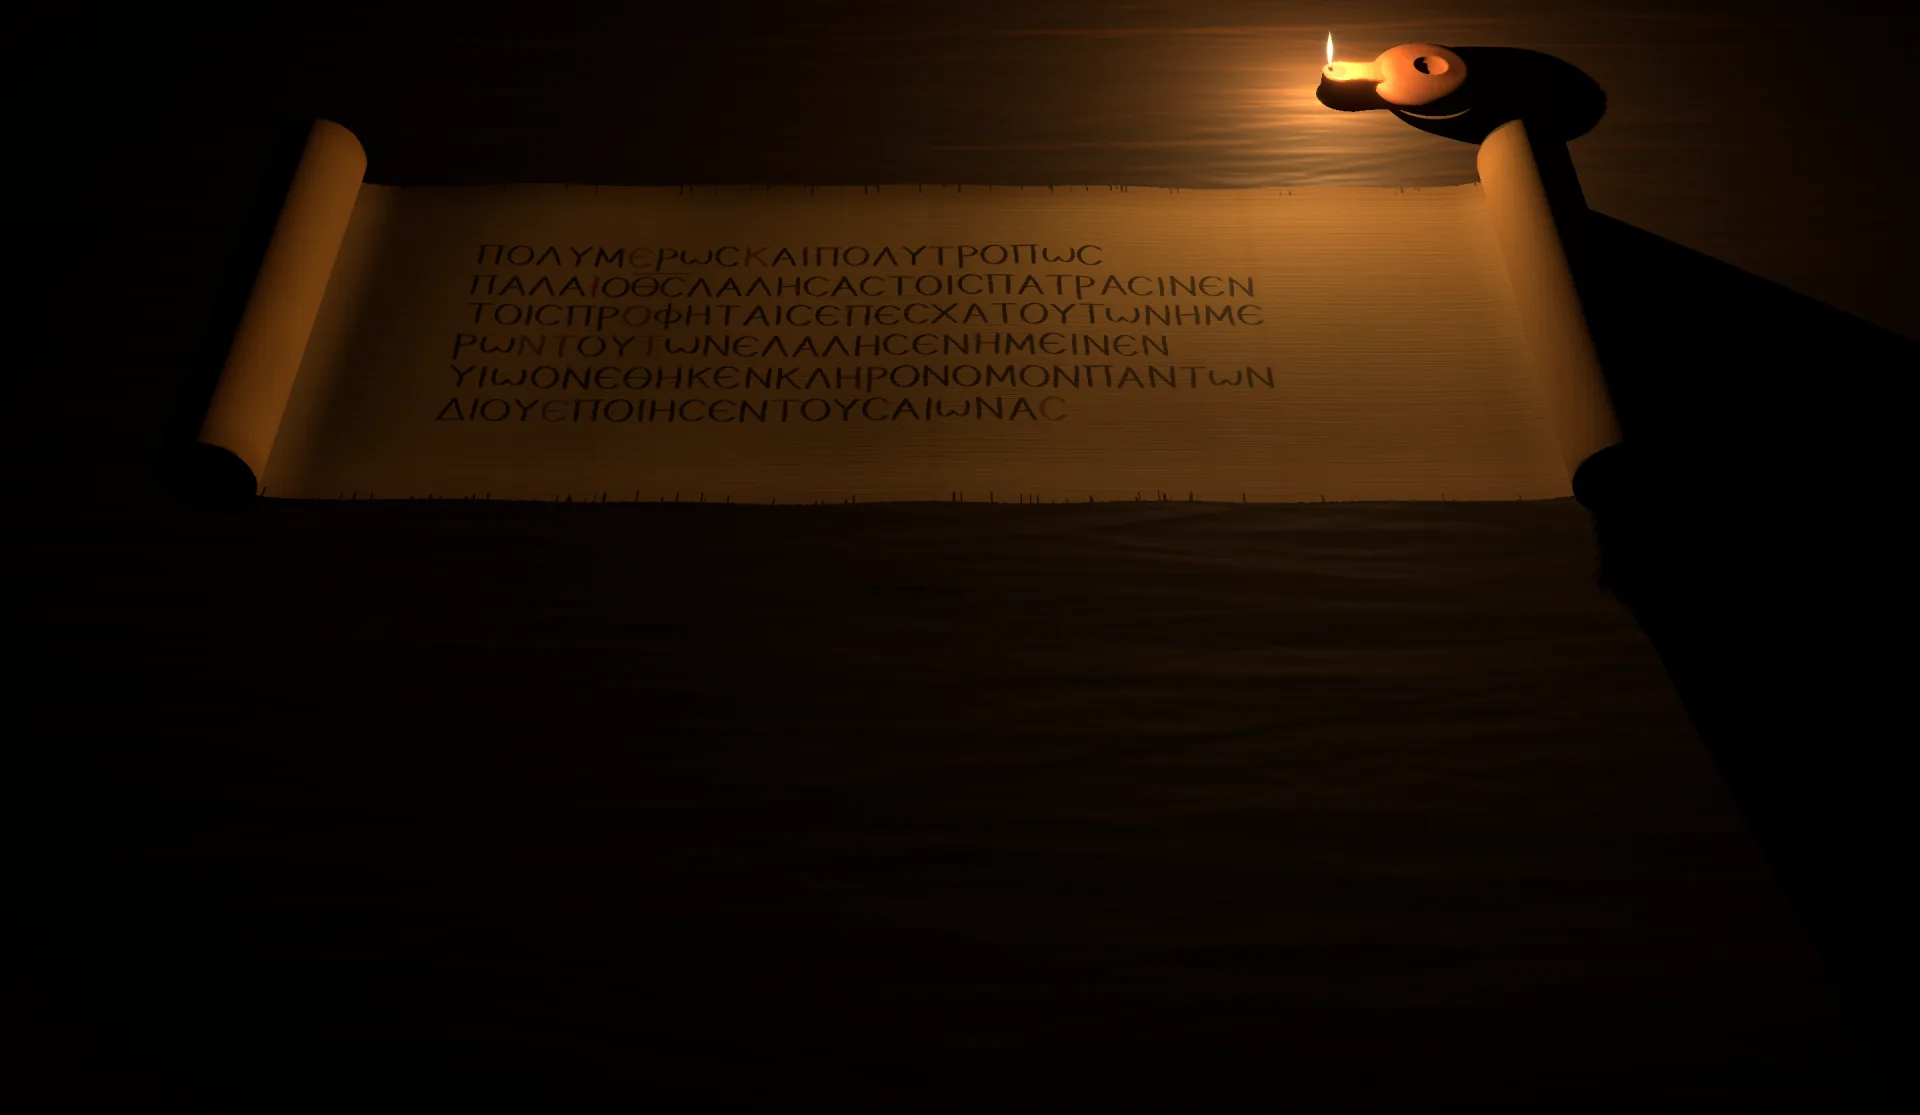
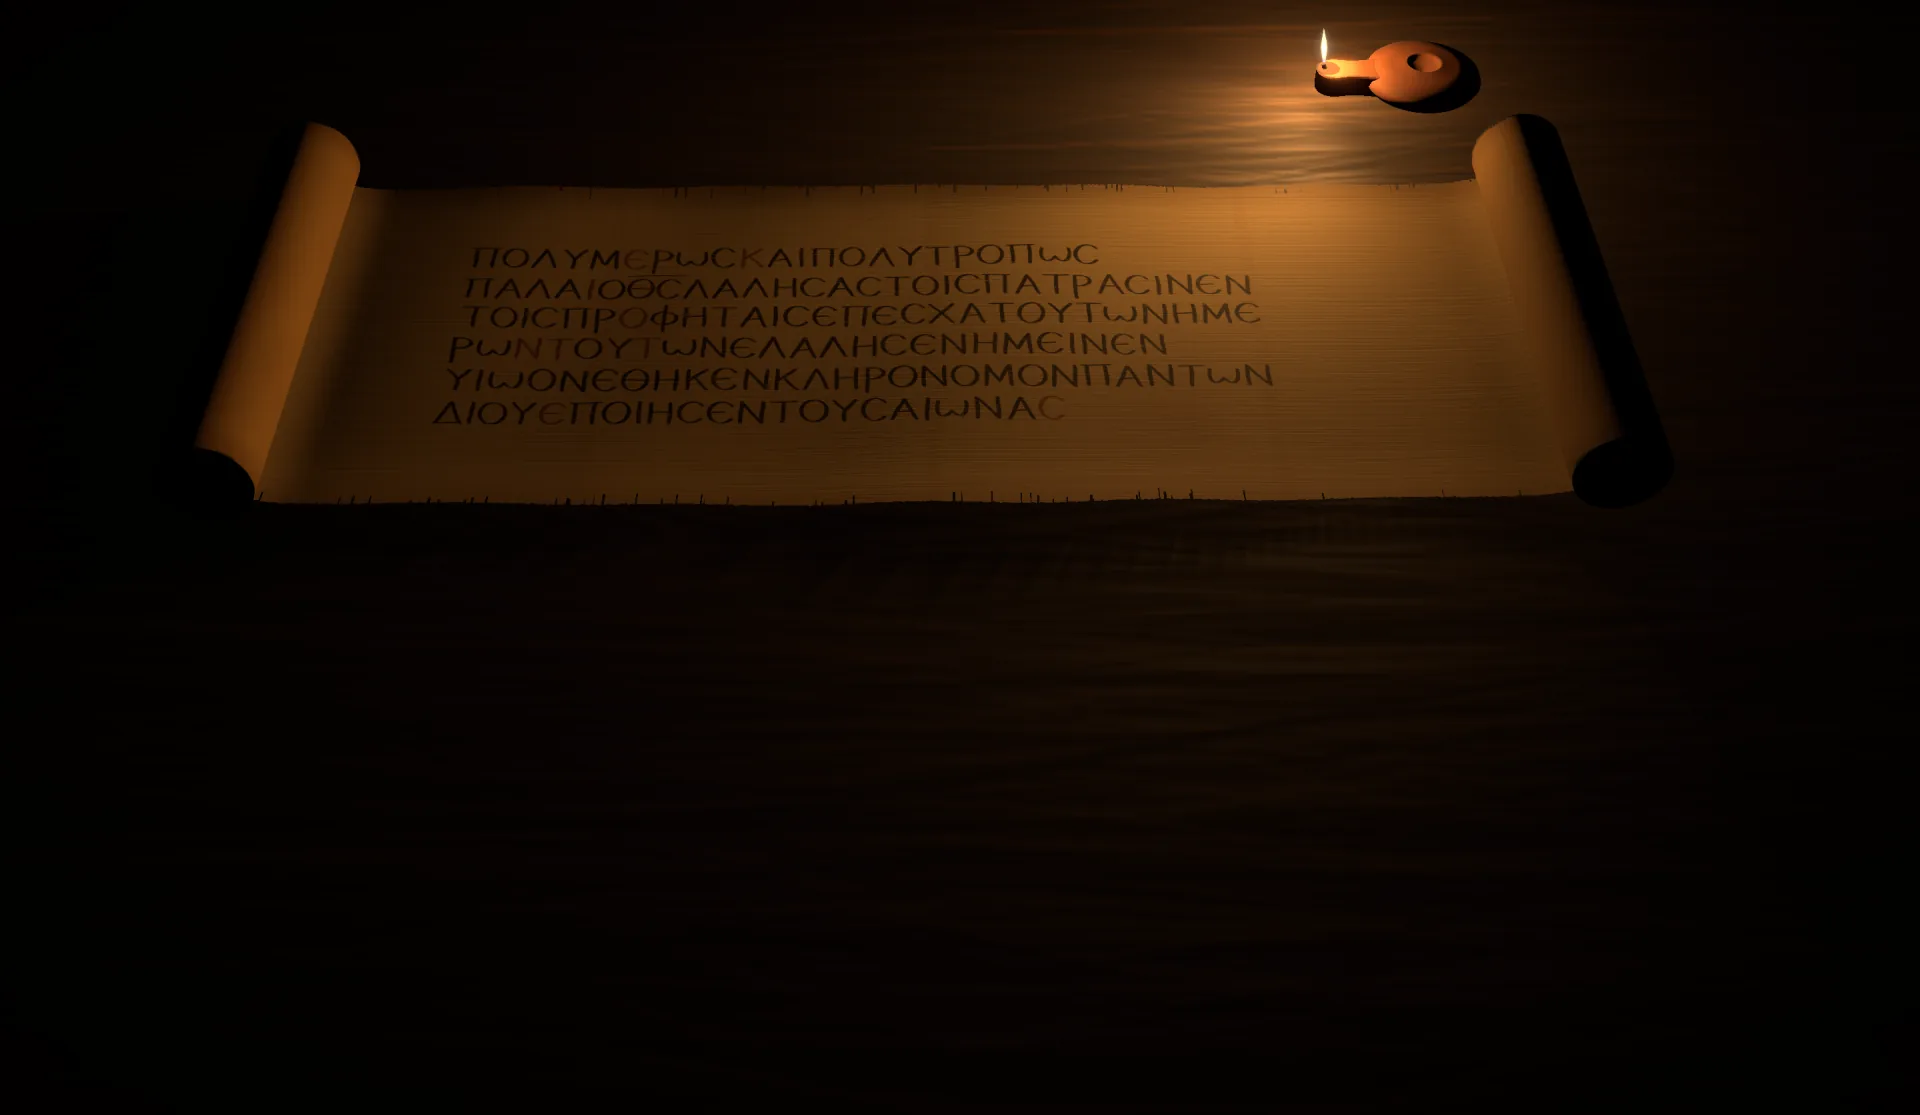
Fix the home scene rendering black in Safari
Safari renders point-light shadow maps as full shadow, so the papyrus
and table went black on tier-3 devices and only the flame showed.
Shadows now come from a spot light aimed from the flame at the scroll.
A softer point light with no shadows lights round the lamp.

- Use PCFShadowMap; PCFSoftShadowMap was removed in three r186.
- Fix the reveal mask's reversed smoothstep, and stop a sliver of each
  line's first letter showing before its line starts.
- Move the low-tier shadow patch off the lit nozzle.
- Frame the phone view lower so the flame clears Safari's toolbar.
- Re-render the stills.

diff --git a/components/scenes/three/scenes/HeroHomeScene.tsx b/components/scenes/three/scenes/HeroHomeScene.tsx
@@ -1,13 +1,15 @@
 "use client";
 
-import { useLayoutEffect, useRef } from "react";
+import { useLayoutEffect, useMemo, useRef } from "react";
 import { useThree } from "@react-three/fiber";
 import { damp } from "maath/easing";
 import {
   type Material,
   type Mesh,
-  PCFSoftShadowMap,
+  Object3D,
+  PCFShadowMap,
   type PointLight,
+  type SpotLight,
 } from "three";
 import type { SceneProps } from "../registry";
 import { SceneEffects } from "../primitives/SceneEffects";
@@ -26,14 +28,16 @@ import { setShadowMap } from "../primitives/mutate";
 import { STILL, useSceneTime } from "../primitives/Timeline";
 import { setLens, useResetCameraOnUnmount } from "../primitives/useSceneCamera";
 
-const LIGHT = 7;
+const LIGHT = 8;
+/** Lamp share lit without shadows; Safari blacks out point-light shadow maps, so a spot casts them. */
+const GLOW = 0.4;
 
 function useShadows(on: boolean) {
   const gl = useThree((s) => s.gl);
   const scene = useThree((s) => s.scene);
   useLayoutEffect(() => {
     if (!on) return;
-    setShadowMap(gl, true, PCFSoftShadowMap);
+    setShadowMap(gl, true, PCFShadowMap);
     const refresh = () =>
       scene.traverse((o) => {
         const m = (o as Mesh).material as Material | Material[] | undefined;
@@ -56,7 +60,13 @@ export function HeroHomeScene({ mobile, effects, pointer }: SceneProps) {
   useResetCameraOnUnmount();
   useShadows(effects);
   const camera = useThree((s) => s.camera);
-  const light = useRef<PointLight>(null);
+  const glow = useRef<PointLight>(null);
+  const spot = useRef<SpotLight>(null);
+  const target = useMemo(() => {
+    const o = new Object3D();
+    o.position.set(LETTER.scroll.x - 0.3, 0, LETTER.scroll.z + 0.2);
+    return o;
+  }, []);
   const reveal = useRef<number[]>(SCROLL_LINES.map(() => 0));
   const flick = useRef(flicker(0));
 
@@ -71,9 +81,13 @@ export function HeroHomeScene({ mobile, effects, pointer }: SceneProps) {
     });
     const f = flicker(t);
     flick.current = f;
-    if (light.current) {
-      light.current.intensity = LIGHT * f.power;
-      light.current.position.set(
+    for (const [l, share] of [
+      [glow.current, GLOW],
+      [spot.current, 1 - GLOW],
+    ] as const) {
+      if (!l) continue;
+      l.intensity = LIGHT * share * f.power;
+      l.position.set(
         LETTER.flame[0] + f.dx,
         LETTER.flame[1] + 0.07,
         LETTER.flame[2] + f.dy,
@@ -88,7 +102,7 @@ export function HeroHomeScene({ mobile, effects, pointer }: SceneProps) {
       damp(cam.position, "x", 0.55 + p.x * 0.08, 0.9, dt);
       cam.position.y = 3.0 + lift - p.y * 0.05;
       cam.position.z = 2.9;
-      cam.lookAt(0.55, -0.6, 0.3);
+      cam.lookAt(0.55, -0.6, -0.05);
     } else {
       damp(cam.position, "x", -0.05 + p.x * 0.15, 0.9, dt);
       cam.position.y = 3.3 + lift - p.y * 0.08;
@@ -101,16 +115,27 @@ export function HeroHomeScene({ mobile, effects, pointer }: SceneProps) {
     <>
       <hemisphereLight args={["#1b2233", "#120c07", 0.08]} />
       <pointLight
-        ref={light}
+        ref={glow}
         position={[LETTER.flame[0], LETTER.flame[1] + 0.07, LETTER.flame[2]]}
         color="#ffb766"
-        intensity={LIGHT}
+        intensity={LIGHT * GLOW}
         decay={1.4}
+      />
+      <primitive object={target} />
+      <spotLight
+        ref={spot}
+        target={target}
+        position={[LETTER.flame[0], LETTER.flame[1] + 0.07, LETTER.flame[2]]}
+        color="#ffb766"
+        intensity={LIGHT * (1 - GLOW)}
+        decay={1.4}
+        angle={1.25}
+        penumbra={0.9}
         castShadow={effects}
-        shadow-mapSize={[1024, 1024]}
-        shadow-bias={-0.0015}
+        shadow-mapSize={mobile ? [1024, 1024] : [2048, 2048]}
+        shadow-bias={-0.0008}
         shadow-normalBias={0.01}
-        shadow-camera-near={0.02}
+        shadow-camera-near={0.05}
         shadow-camera-far={8}
       />
       <Table mobile={mobile} />

diff --git a/components/scenes/three/primitives/Letter.tsx b/components/scenes/three/primitives/Letter.tsx
@@ -133,8 +133,8 @@ for (int i = 0; i < ${MAX_LINES}; i++) {
   if (i >= uLines) break;
   vec4 b = uBands[i];
   if (vMapUv.y <= b.x && vMapUv.y >= b.y) {
-    float edge = mix(b.z, b.w + 0.01, uReveal[i]);
-    shown = max(shown, smoothstep(edge, edge - 0.004, vMapUv.x));
+    float edge = mix(b.z - 0.01, b.w + 0.01, uReveal[i]);
+    shown = max(shown, 1.0 - smoothstep(edge - 0.004, edge, vMapUv.x));
   }
 }
 diffuseColor.rgb = mix(diffuseColor.rgb, ink.rgb, ink.a * shown);`,
@@ -465,7 +465,7 @@ export function ContactShadows() {
       0.42,
       LETTER.scroll.depth * 1.15,
     ],
-    [LETTER.lamp.x - 0.06, LETTER.lamp.z, 0.62, 0.5],
+    [LETTER.lamp.x + 0.05, LETTER.lamp.z, 0.42, 0.38],
   ];
   return (
     <>
